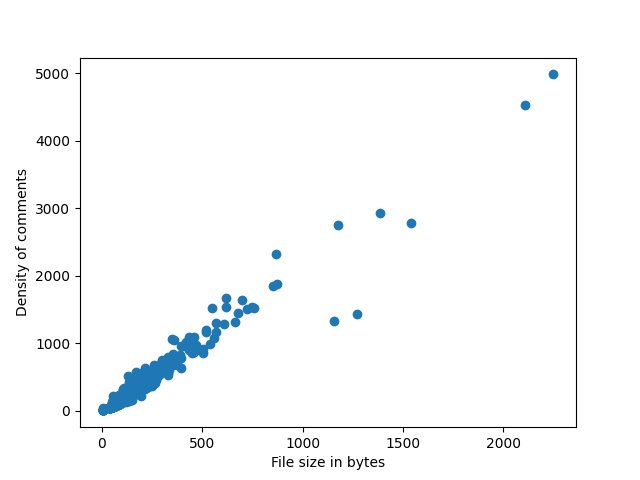
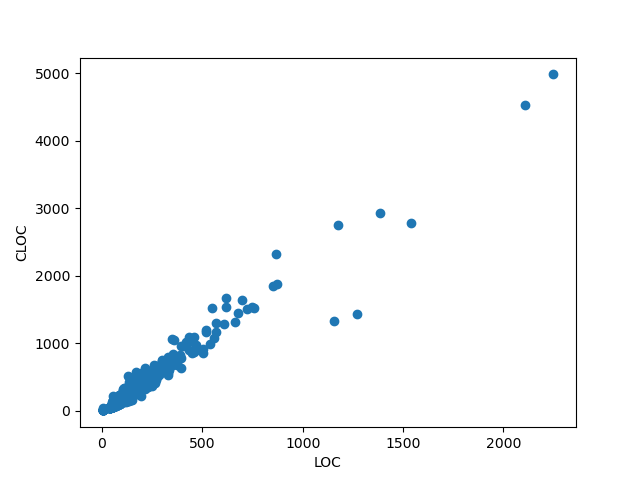
Ajustement des labels des axes

diff --git a/src/commentDensity.py b/src/commentDensity.py
@@ -53,11 +53,11 @@ def calculate_file_comment_density(file: Path):
     return num_lines_of_comments, num_non_empty_lines, (num_lines_of_comments / num_non_empty_lines)
 
 
-def generate_density_graph(file_sizes: list, comment_densities: list):
-    x_points = np.array(file_sizes)
-    y_points = np.array(comment_densities)
-    plt.xlabel("File size in bytes")
-    plt.ylabel("Density of comments")
+def generate_density_graph(list_line_comment: list, list_non_empty: list):
+    x_points = np.array(list_line_comment)
+    y_points = np.array(list_non_empty)
+    plt.xlabel("LOC")
+    plt.ylabel("CLOC")
     plt.scatter(x_points, y_points)
     plt.savefig("comment_density.png")
 
